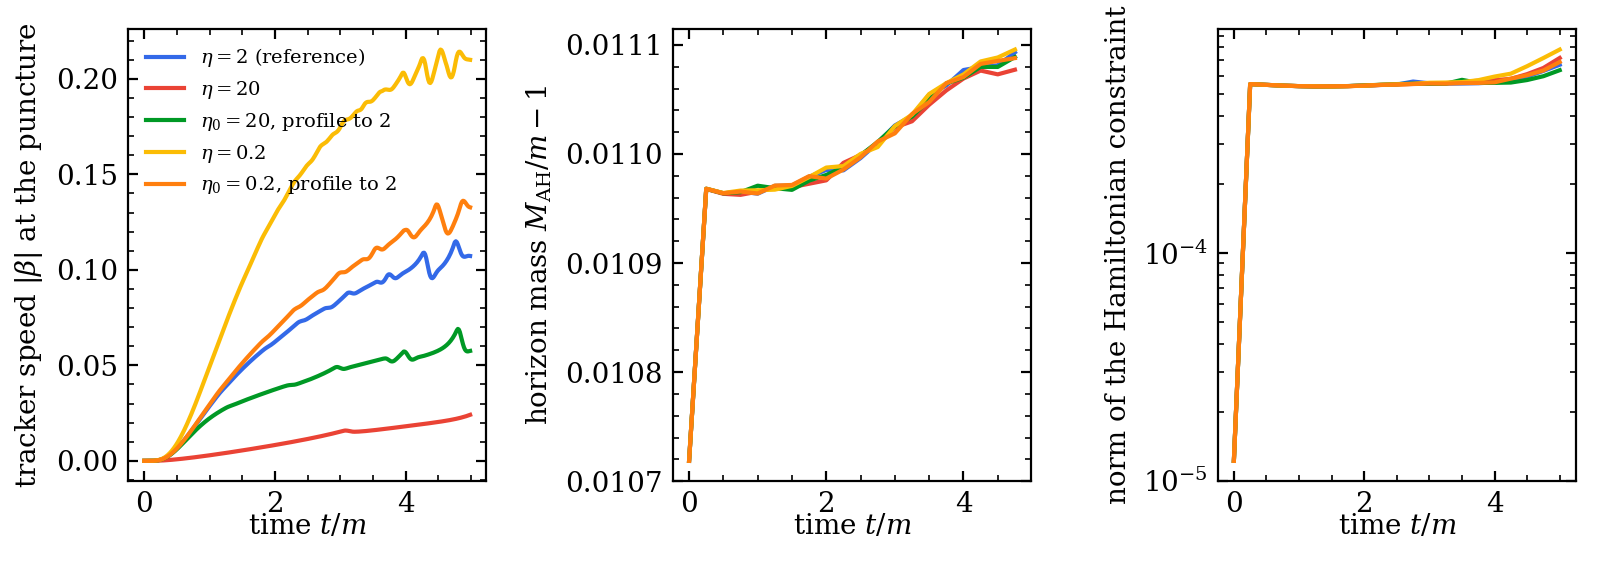
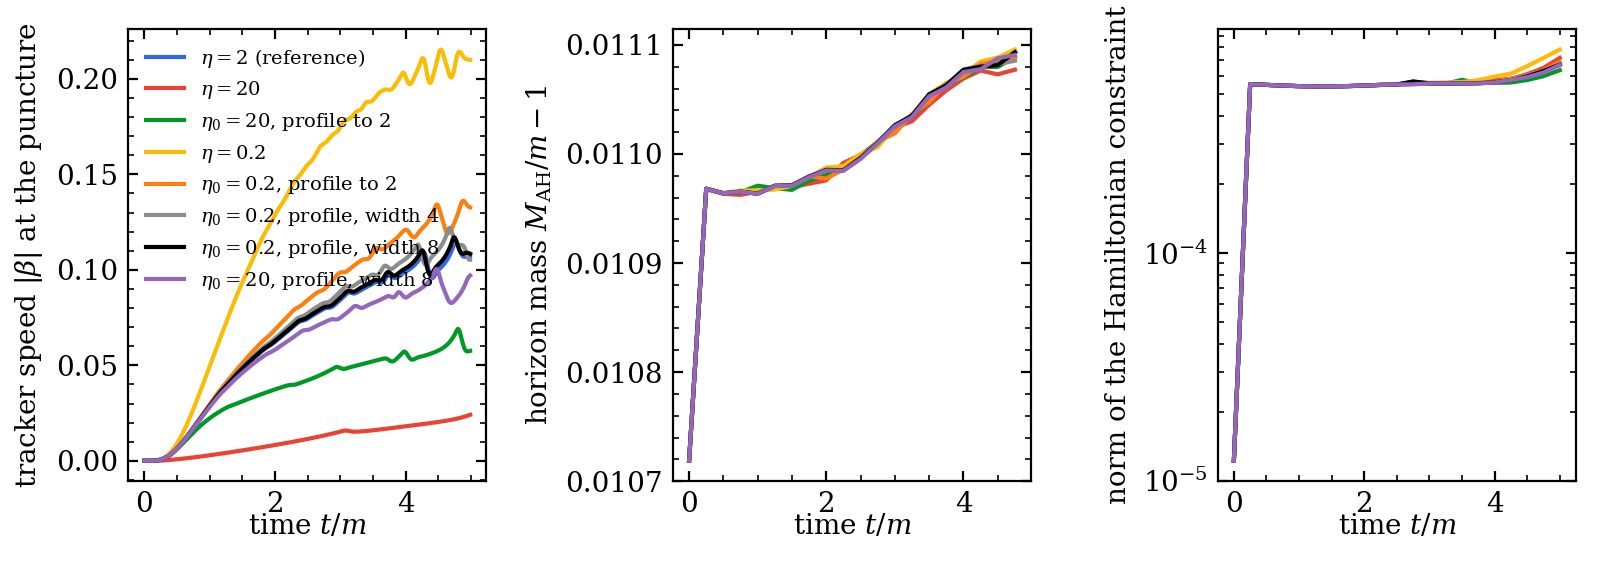
E1 with wider damping profiles (processors, run core-20261119-141003 analysis): width 4 and 8 bring the under-damped tracker to 1.04 and 1.02 of the reference, width 8 the over-damped one to 0.86; legend moved off the curves
Claude-Session: https://claude.ai/code/session_0199y7HEXiYfCzUzsqxwMTnx

diff --git a/tracks/core/analysis/gauge/punc_analysis.py b/tracks/core/analysis/gauge/punc_analysis.py
@@ -179,7 +179,10 @@ def main():
                 H_end=float(r["hst"]["H"][-1]), wall=r["wall"], card_hours=r["card_hours"])
         ax[0].set_xlabel(r"time $t/m$", labelpad=-2)
         ax[0].set_ylabel(r"tracker speed $|\beta|$ at the puncture")
-        ax[0].legend(fontsize=7)
+        # the legend goes into the free corner of the middle panel (eight entries cover
+        # the curves of the left one)
+        hd, lb = ax[0].get_legend_handles_labels()
+        ax[1].legend(hd, lb, fontsize=6, loc="lower right")
         ax[1].set_xlabel(r"time $t/m$", labelpad=-2)
         ax[1].set_ylabel(r"horizon mass $M_{\rm AH}/m - 1$")
         ax[2].set_xlabel(r"time $t/m$", labelpad=-2)
